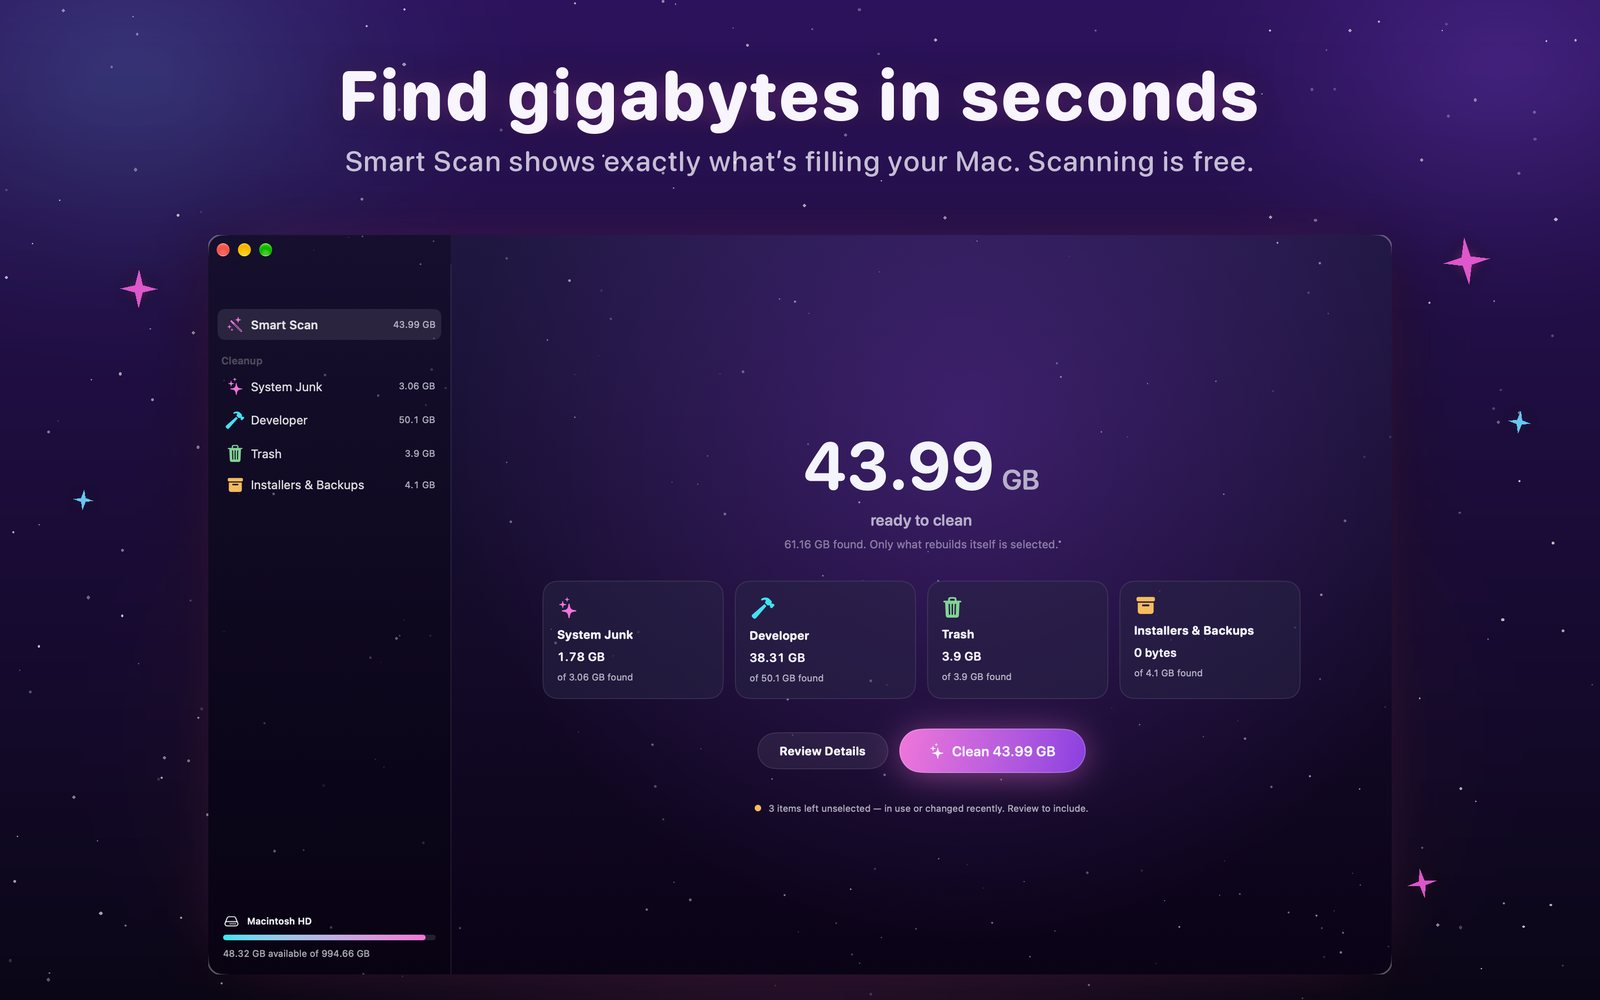
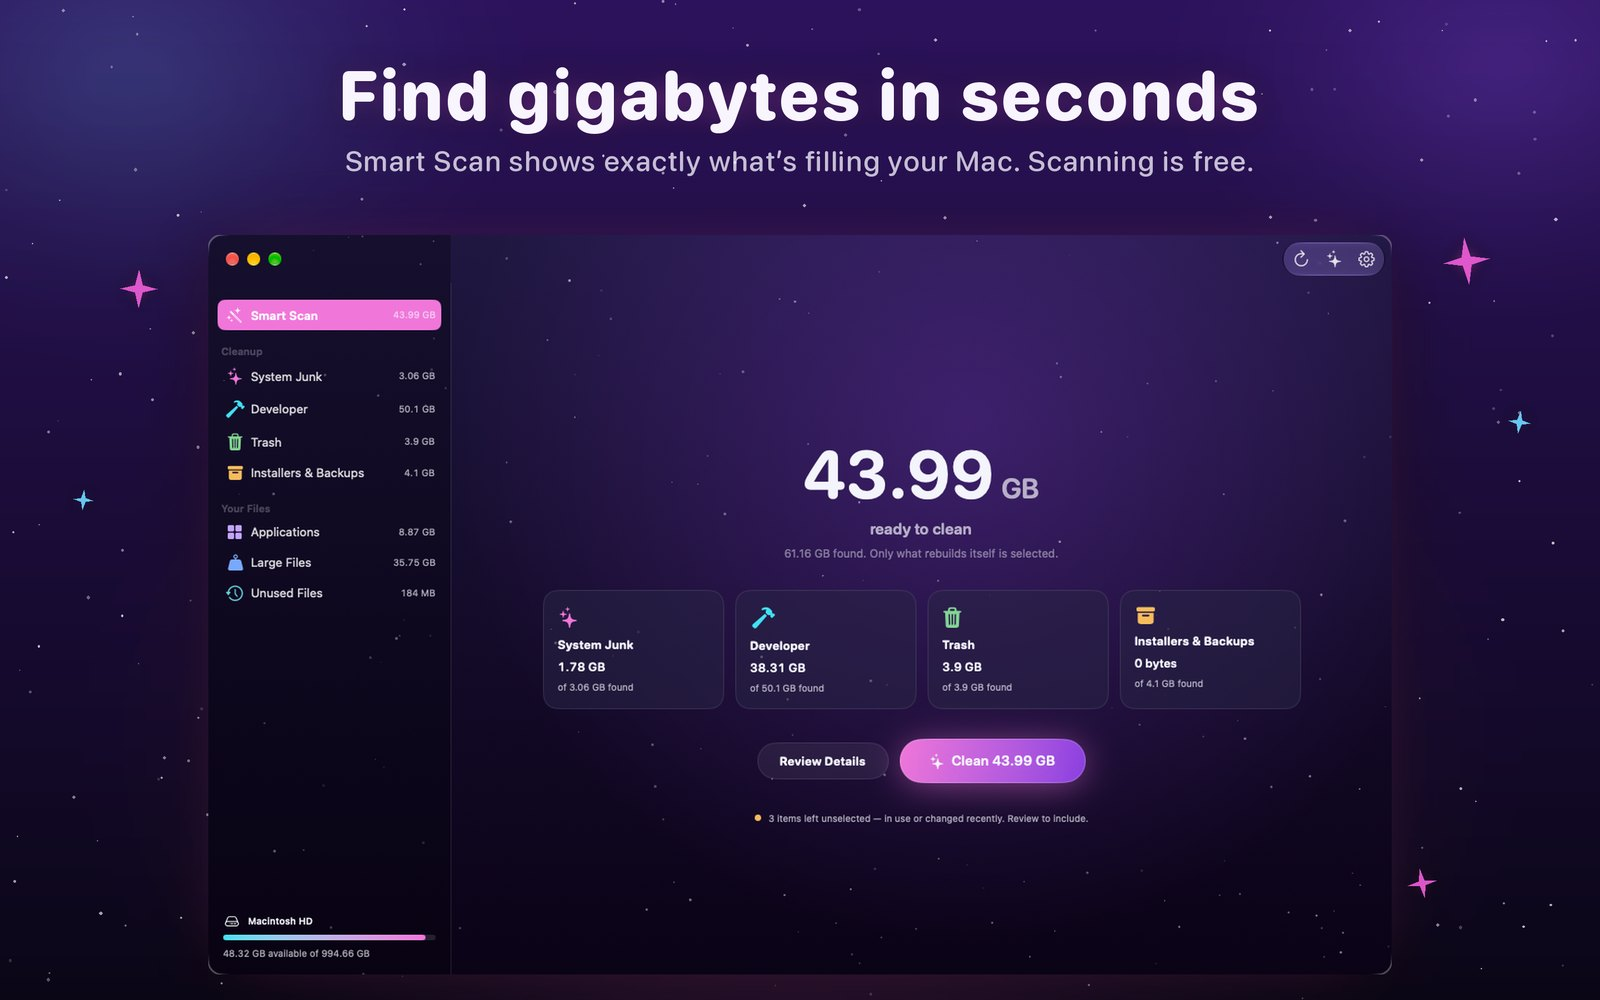
Poof's page: the uninstaller, big and forgotten files, and no promise it cannot keep
"Your documents are never touched" stopped being true when Poof learned to move a file you tick to
the Trash; it says your own files are never selected for you now. Two new features, a support answer
about removing apps (the Applications folder, App Management, Finder for apps installed for
everyone), and the hero shows the new sidebar.

diff --git a/apps/poof/index.html b/apps/poof/index.html
@@ -8,7 +8,7 @@ lang-ref: poof-page
   <meta charset="utf-8">
   <meta name="viewport" content="width=device-width, initial-scale=1">
   <title>Poof — make room on your Mac · Magic Lab Solutions</title>
-  <meta name="description" content="Poof finds the caches, logs and build leftovers apps pile up on your Mac — and removes only what you choose. Scanning is free.">
+  <meta name="description" content="Poof finds the caches, logs and build leftovers apps pile up on your Mac, uninstalls apps with their data, and finds your big and forgotten files — and removes only what you choose. Scanning is free.">
   <meta name="theme-color" content="#2b1257">
   <meta property="og:type" content="website">
   <meta property="og:title" content="Poof — make room on your Mac">
@@ -32,19 +32,21 @@ lang-ref: poof-page
       <img class="icon" src="/images/poof/app-icon.png" width="128" height="128" alt="">
       <h1 id="title">Poof</h1>
       <p class="headline">Make room on your Mac.</p>
-      <p class="lede">Poof finds the caches, logs, build leftovers and forgotten files that apps pile up — and removes only what you choose. Scanning is always free.</p>
+      <p class="lede">Poof finds the caches, logs and build leftovers that apps pile up, uninstalls apps along with their data, and shows you your biggest and most forgotten files — and removes only what you choose. Scanning is always free.</p>
       <div class="actions">
         <a class="button" href="https://apps.apple.com/app/id6816976275">Get it on the Mac App Store</a>
         <a class="button quiet" href="#support">Support</a>
       </div>
       <p class="fine">For macOS 14 Sonoma and later.</p>
-      <div class="shot"><img src="/images/poof/hero.jpg" width="1600" height="1000" alt="Poof’s Smart Scan showing 43.99 GB ready to clean, sorted into System Junk, Developer, Trash, and Installers &amp; Backups."></div>
+      <div class="shot"><img src="/images/poof/hero.jpg" width="1600" height="1000" alt="Poof’s Smart Scan showing 43.99 GB ready to clean, sorted into System Junk, Developer, Trash, and Installers &amp; Backups, with Applications, Large Files and Unused Files in the sidebar."></div>
     </section>
 
     <section class="features wrap" aria-label="What Poof does">
       <div class="feature"><span class="glyph" aria-hidden="true">✦</span><h2>See everything first</h2><p>Smart Scan shows exactly what’s taking space, what each item is and which app it belongs to — in seconds.</p></div>
-      <div class="feature"><span class="glyph" aria-hidden="true">✦</span><h2>Safe by design</h2><p>Only what rebuilds itself is selected. Anything in use or changed recently is left alone, and your documents are never touched.</p></div>
+      <div class="feature"><span class="glyph" aria-hidden="true">✦</span><h2>Safe by design</h2><p>Only what rebuilds itself is selected. Anything in use or changed recently is left alone, and your own files are never selected for you — what you pick goes to the Trash.</p></div>
       <div class="feature"><span class="glyph" aria-hidden="true">✦</span><h2>Made for developers, too</h2><p>Xcode DerivedData, device support, archives and the caches of npm, Homebrew, CocoaPods, Gradle, Cargo and more.</p></div>
+      <div class="feature"><span class="glyph" aria-hidden="true">✦</span><h2>Uninstall apps completely</h2><p>Every app with the settings and data it keeps — often more than the app itself — gone together, to the Trash.</p></div>
+      <div class="feature"><span class="glyph" aria-hidden="true">✦</span><h2>Big and forgotten files</h2><p>Large Files and Unused Files show what’s taking room in your folders. Nothing is selected for you, and iCloud Drive is never touched.</p></div>
       <div class="feature"><span class="glyph" aria-hidden="true">✦</span><h2>Keeps watch</h2><p>Free space in your menu bar, and a heads-up when your Mac runs low — with an estimate of what you could clean.</p></div>
     </section>
 
@@ -57,6 +59,10 @@ lang-ref: poof-page
       <section>
         <h2>What is Full Disk Access for?</h2>
         <p>It is optional. With it, Poof can also look at the Trash, Mail downloads and app container caches. Turn it on in System Settings › Privacy &amp; Security › Full Disk Access.</p>
+      </section>
+      <section>
+        <h2>Removing apps</h2>
+        <p>Poof moves an app and the data it keeps to the Trash, so you can put them back. The Mac App Store edition asks for your Applications folder once. macOS protects apps you’ve opened from other apps: to remove those, allow Poof in System Settings › Privacy &amp; Security › App Management. Apps installed for everyone on your Mac — from the App Store or an installer — can only be removed in Finder, which asks for your password.</p>
       </section>
       <section>
         <h2>Poof Pro, restoring and cancelling</h2>
